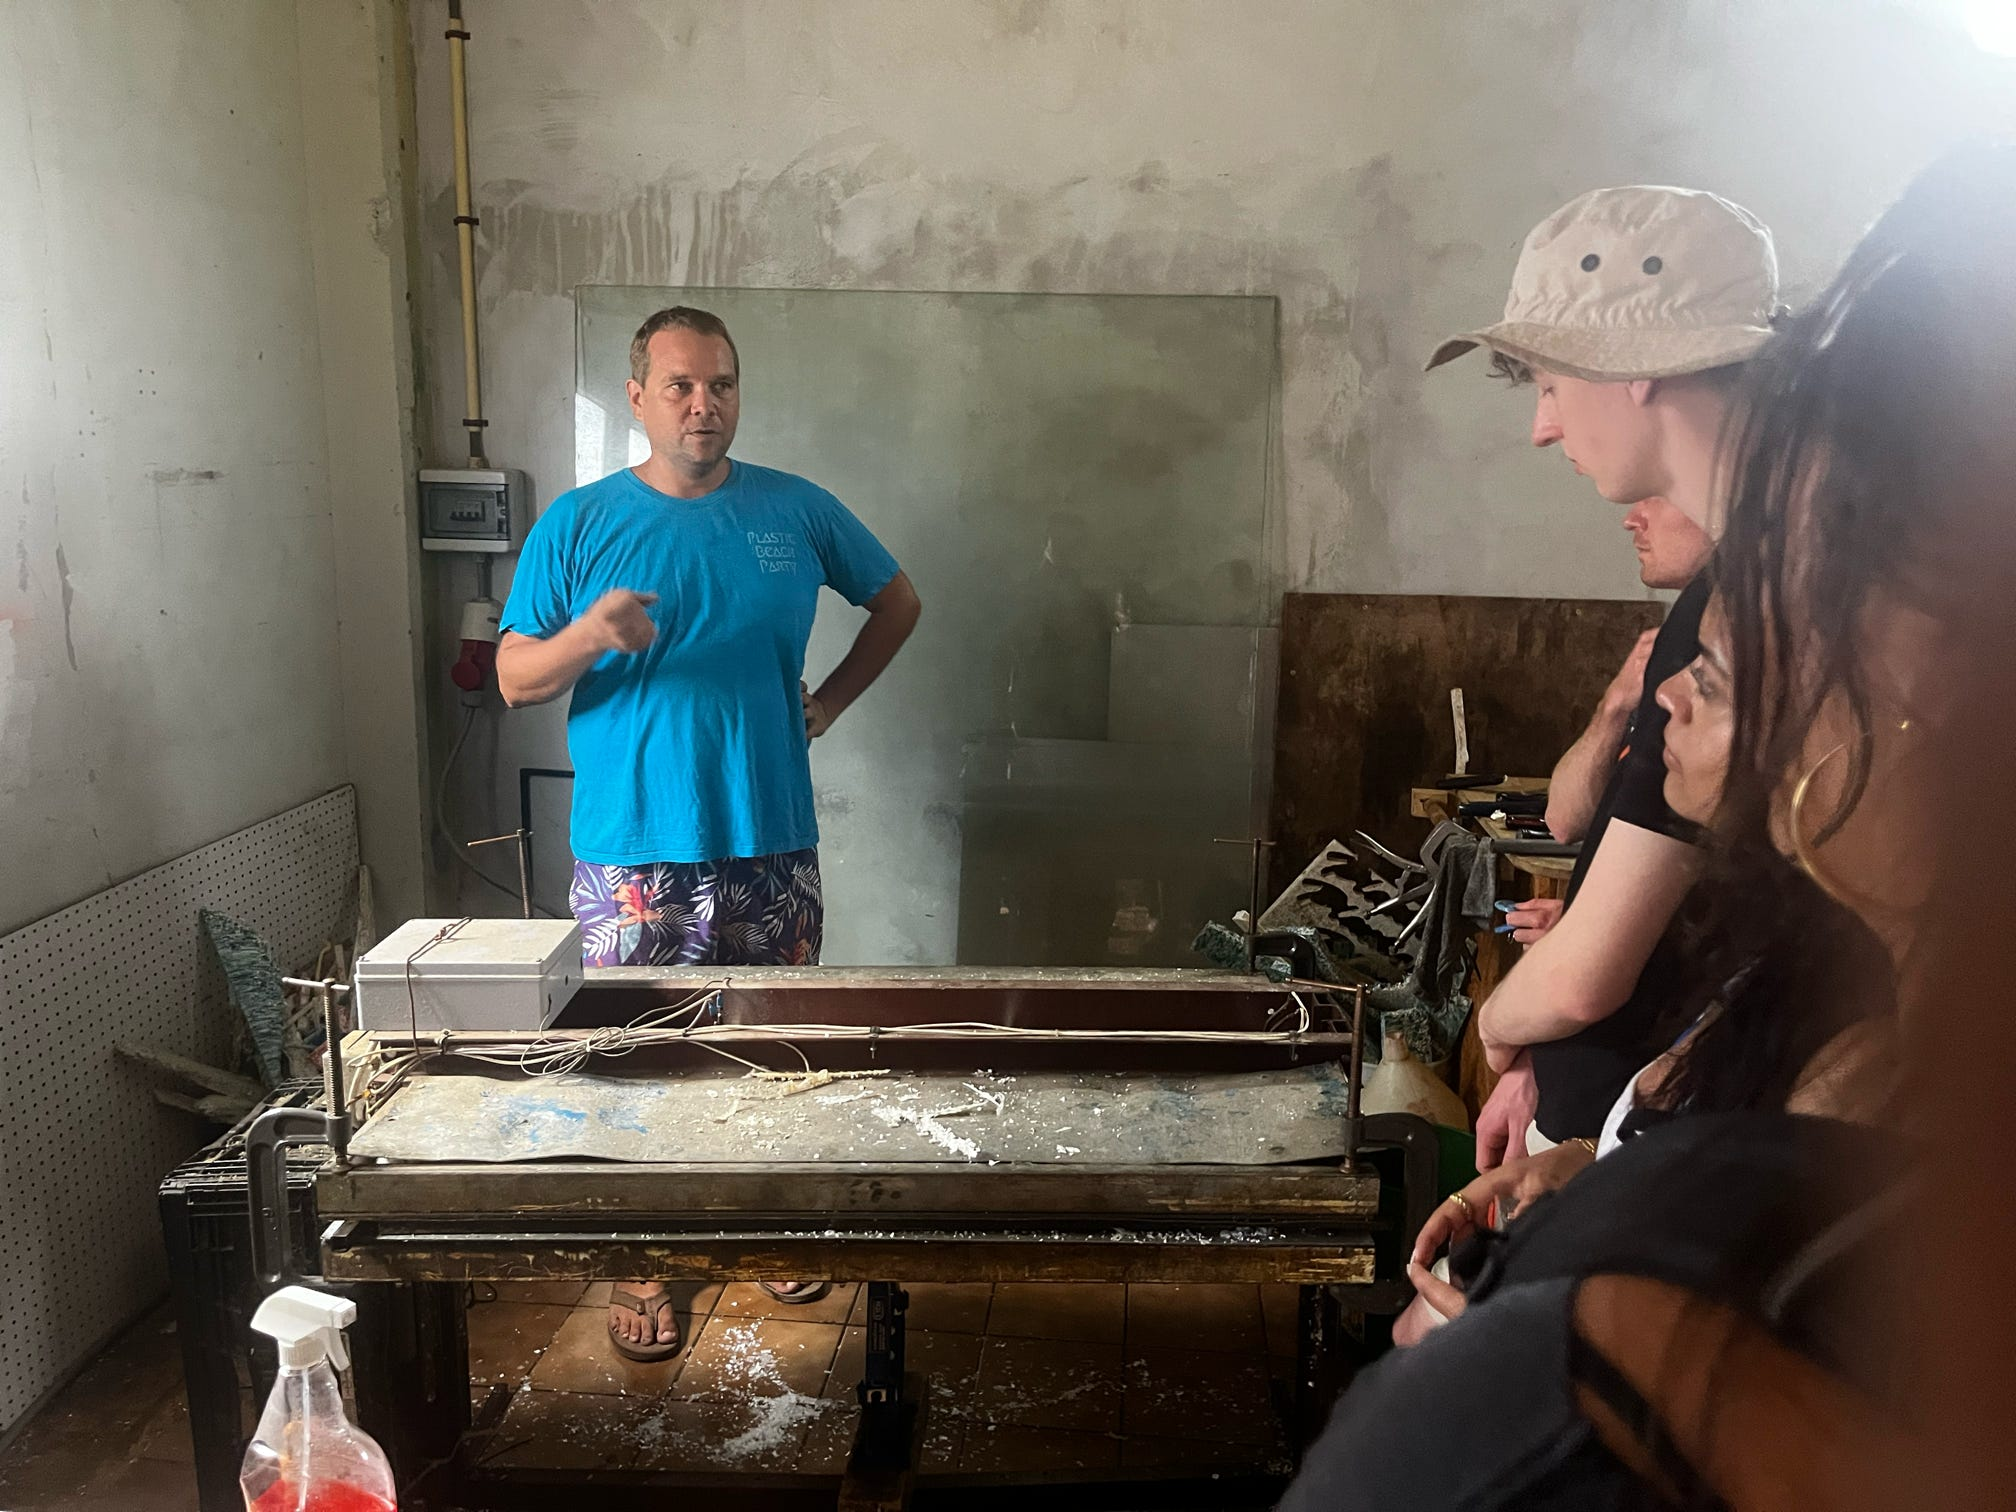
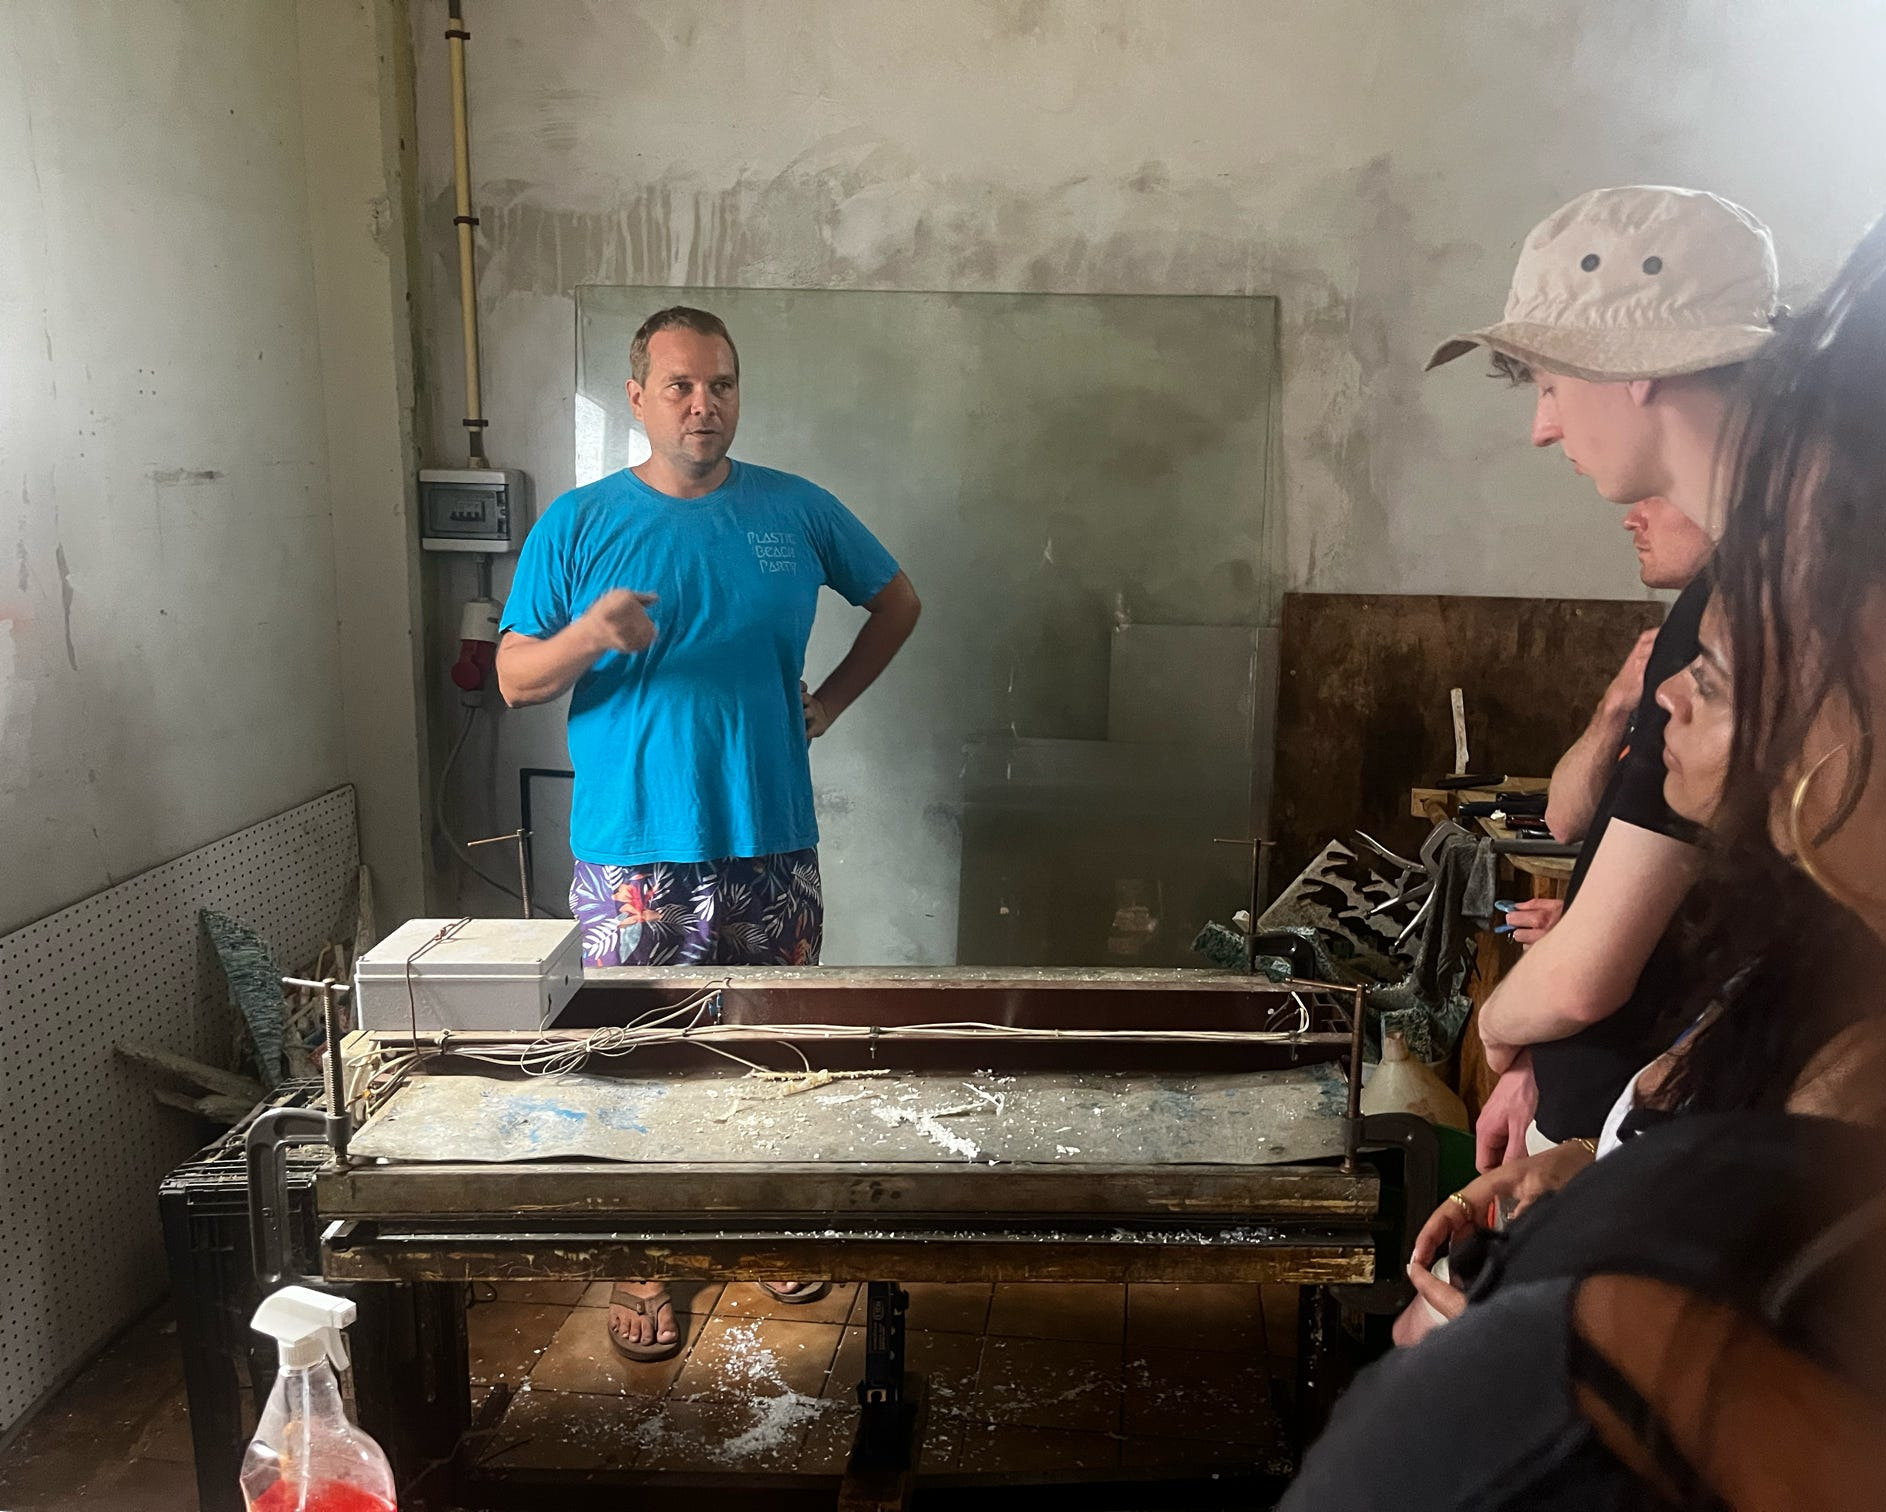
Edits; publish Aruba article

diff --git a/blog/aruba.html b/blog/aruba.html
@@ -245,8 +245,8 @@
       I have many more thoughts on the flexibility of vegetarianism within other
       cultures, and while I'm not as strict as my be expected, that thought is
       probably best left for a later article or personal conversation.
-      Fortunately, I wasn't yet out of luck, and a side of potato and onion and
-      a second side of fried yuca.
+      Fortunately, I wasn't yet out of luck, and I got a side of potato &amp;
+      onion and a second side of fried yuca.
       The latter of those is a dish I really enjoyed, and hope to recreate at
       home in the future.
     </p>
@@ -383,7 +383,7 @@
     <h3>History, Trees, and Celebration</h3>
     <p>
       The day started with a history lesson from Mr. Leon Bérénos, a born and
-      raised Aruban and an educator with the department of tourism.
+      raised Aruban and an educator with the Department of Tourism.
       Mr. Bérénos is also colloquially known as Aruba's best dressed man; in
       just a tee shirt I didn't buy it yet, but it would become apparent later.
     </p>
@@ -461,8 +461,8 @@
       things of the whole program.
       Working with Anita Mijts-Aerts and her grassroots initiative
       <a href="https://treesforaruba.com/">Ban Lanta y Planta</a> (translated
-      from Papiamento as "let's get up and plant"), we grouped up and planted
-      native trees in a nature preserve.
+      from the local language Papiamento as "let's get up and plant"), we
+      grouped up and planted native trees in a nature preserve.
       The dirt was really hard and I quickly worked up a sweat.
       As Dr. Plaza pointed out, there's a reason most cemeteries in Aruba
       feature above-ground burials.
@@ -479,15 +479,15 @@
         <a href="../asset/aruba/tree_planting.jpg">
           <img src="../asset/aruba/tree_planting.jpg"></img>
         </a>
-        <figcaption> Planting trees with Bon Lanta y Planta </figcaption>
+        <figcaption> Planting trees with Ban Lanta y Planta </figcaption>
       </figure>
     </div>
 
     <p>
       We had a barbeque dinner back at the apartments and hosted students from
       the University of Aruba.
-      It was super cool to mingle with them and hear their experiences in Aruba
-      and back home in the Netherlands.
+      It was super cool to mingle with them and hear their experiences both in
+      Aruba and back home in the Netherlands.
       Professor Cheung got Tommy a birthday cake with Aruba's flag, which was a
       very nice touch to the evening.
     </p>
@@ -503,7 +503,7 @@
       It was a worthy celebration and lots of fun bonding with everyone outside
       the classroom setting.
       The only downside was that we were all still tired, and an 8 a.m. start
-      the next day wasn't getting any later.
+      the next day loomed on the horizon.
     </p>
 
     <div class="image-row">
@@ -556,7 +556,7 @@
       resort.
       He posed difficult questions to the group, probing for where the line
       should be drawn between short-term economic prosperity and long-term
-      sustainability, and arguing that both are important.
+      sustainability, arguing that both are important.
     </p>
 
     <figure>
@@ -599,8 +599,8 @@
       will be filled unless prevented by regulation.
       He traced the flow of tourists onto the island, identifying around 33k
       tourists present per day, each with a typical 6.8 night stay.
-      This causes a 25% population influx in population, and requires strong
-      infrastructure in place to support.
+      This causes a 25% population influx, and requires strong infrastructure in
+      place.
       The island has changed to accommodate visitors, altering the culture of
       Aruba in the process.
       For example, development of American fast food chains followed the tourism
@@ -644,7 +644,7 @@
       Mangroves provide a buffer along bodies of water, absorbing pollution and
       protecting the rest of the ecosystem.
       These unique trees with underwater exposed roots provide very important
-      habitat for many different fish and animals
+      habitat for many different fish and animals.
     </p>
 
     <figure>
@@ -965,8 +965,9 @@
     </p>
 
     <p>
-      We tried to replenish stock of electrolyte power before another hike the
-      following day, but the store assistant we approached spoke only Spanish.
+      At the store, we tried to replenish stock of electrolyte power before
+      another hike the following day, but the store assistant we approached
+      spoke only Spanish.
       I have six years of formal Spanish education with emphasis on
       conversation, but 'electrolyte power' had me stumped.
       I was trying for formulate some idea along the lines of
@@ -982,7 +983,8 @@
       As we checked out, the cashier was incredibly efficient, handing us the
       minimum amount of change necessary.
       We felt bad asking her to keep breaking our change up, but after three
-      rounds back and forth we were satisfied.
+      rounds back and forth we were satisfied with a diverse collection of notes
+      and coins.
       The florin notes are beautiful, and the 10 florin note prominently
       featuring a sea turtle immediately reminded me of my grandma who collects
       all things turtle related.
@@ -1273,7 +1275,7 @@
       Later, I was hungry and looking for food that I could eat, which happened
       to be in short supply.
       Tommy and I found a shop selling <i>pastechi</i>, popular in the Dutch
-      Caribbean and similar to Empanadas.
+      Caribbean and similar to empanadas.
       The shop owner spoke Papiamento, but I for some reason was confident
       enough I could place an order in Spanish since the two languages are
       very similar.
@@ -1304,11 +1306,10 @@
     </p>
 
     <p>
-      A dance teacher of mine, Mrs. Lila Reid, told me that the best dancer
-      isn't one who knows the fanciest spins or has the cleanest improv, but
-      instead who keeps a smile through the whole dance, even after making
-      mistakes.
-      I found that true then, it it proved even more true now.
+      A dance teacher of mine, Ms. Lila Reid, told me that the best dancer isn't
+      one who knows the fanciest spins or has the cleanest improv, but instead
+      who keeps a smile through the whole dance, even after making mistakes.
+      I found the statement true then, it it proved even more true now.
       I was smiling ear-to-ear, not worried in the slightest about technique or
       looking like a fool.
       I just tried my best to move my hips with the rhythm and step in a pattern
@@ -1361,7 +1362,7 @@
     <p>
       Looking back at photos and videos of me dancing, I still get quite
       self-conscious.
-      I debated even posting the video here for fear of looking silly.
+      I debated even posting the videos here for fear of looking silly.
       Then I read back everything I just wrote about this night.
       I decided I'd rather embrace looking silly and be happy and share this
       awesome moment than keep it hidden and be scared of judgement.
@@ -1387,7 +1388,8 @@
       a small hydroponics company that grows lettuce.
       With the high pricetag of desalinated water from WEB and a shortage of
       non-potable water, farming really doesn't happen much anymore on Aruba.
-      Most of the Arubans' needs, notably including food, are all imported.
+      Most of the Arubans' material needs, notably including food, are all
+      imported.
       By growing produce locally, HappyPonics increases food security.
       Lettuce was chosen for its rapid 4-week turn-around time, allowing staff
       to tweak parameters of their design and quickly see results.
@@ -1411,7 +1413,7 @@
       I finally figure out my snorkel mask, so I wasn't filling my eyes with
       saltwater and getting frustrated (yippee).
       Compared to the reef at Boca Catalina we saw at the start of the trip,
-      this one had lots of healthy oral and a vibrant underwater ecosystem with
+      this one had lots of healthy coral and a vibrant underwater ecosystem with
       tons of colorful fish and jellyfish.
     </p>
 

diff --git a/index.html b/index.html
@@ -52,6 +52,10 @@
 
     <ul>
       <li>
+        <a href="blog/aruba.html">My Study Abroad Experience in Aruba</a>
+        <span style="float:right">2026-06-06</span>
+      </li>
+      <li>
         <a href="blog/my_phone.html">Getting Off My Phone</a>
         <span style="float:right">2026-03-30</span>
       </li>

diff --git a/blog/index.html b/blog/index.html
@@ -28,6 +28,10 @@
 
     <ul>
       <li>
+        <a href="aruba.html">My Study Abroad Experience in Aruba</a>
+        <span style="float:right">2026-06-06</span>
+      </li>
+      <li>
         <a href="my_phone.html">Getting Off My Phone</a>
         <span style="float:right">2026-03-30</span>
       </li>
